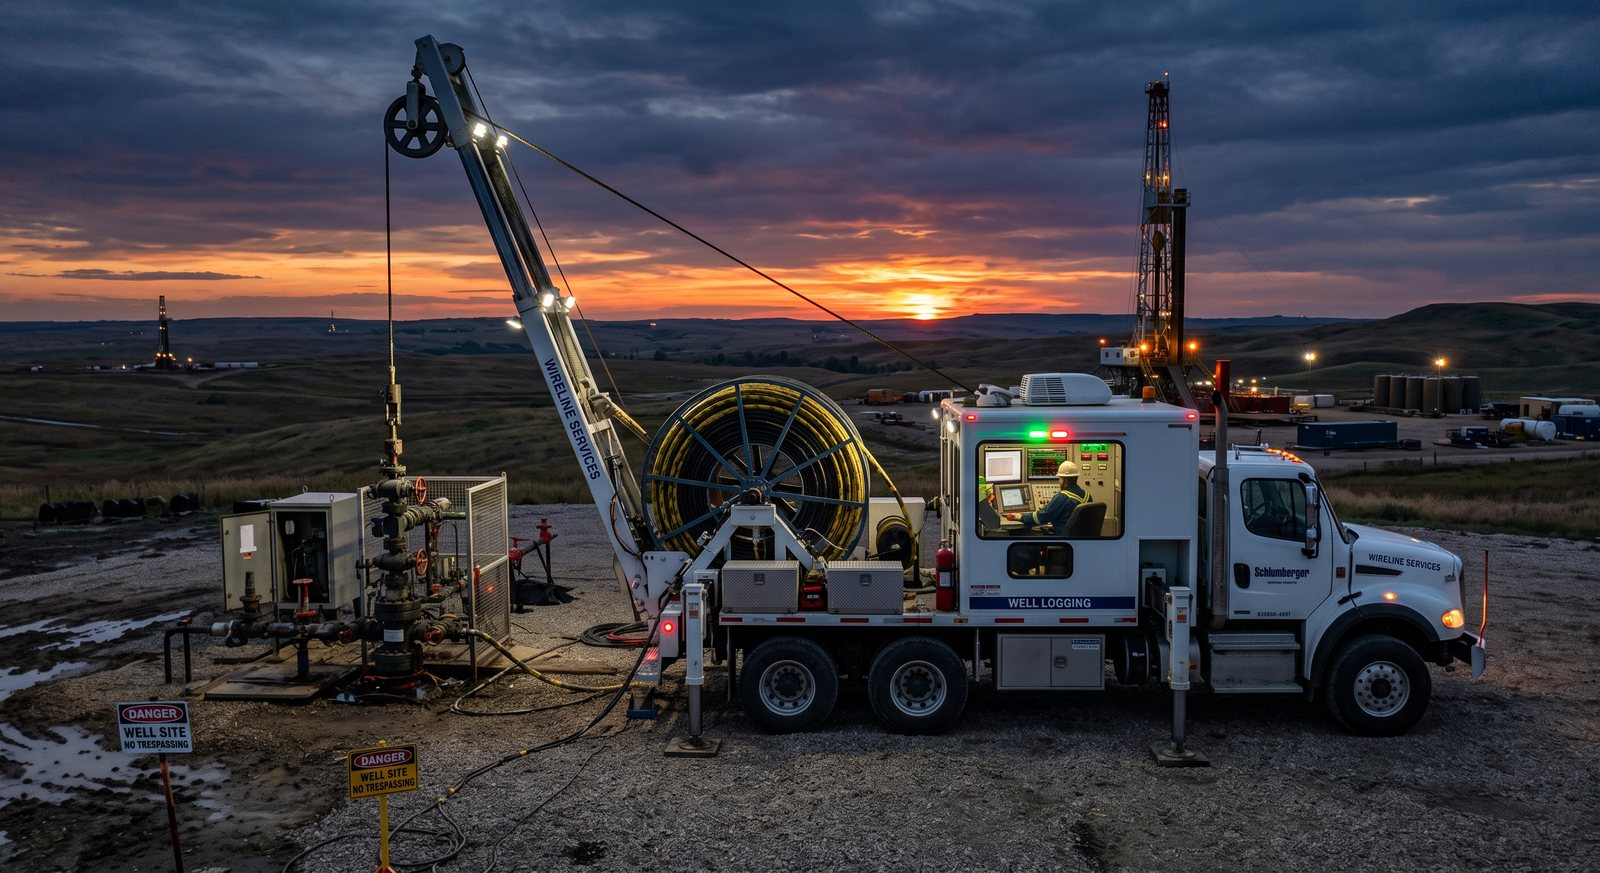
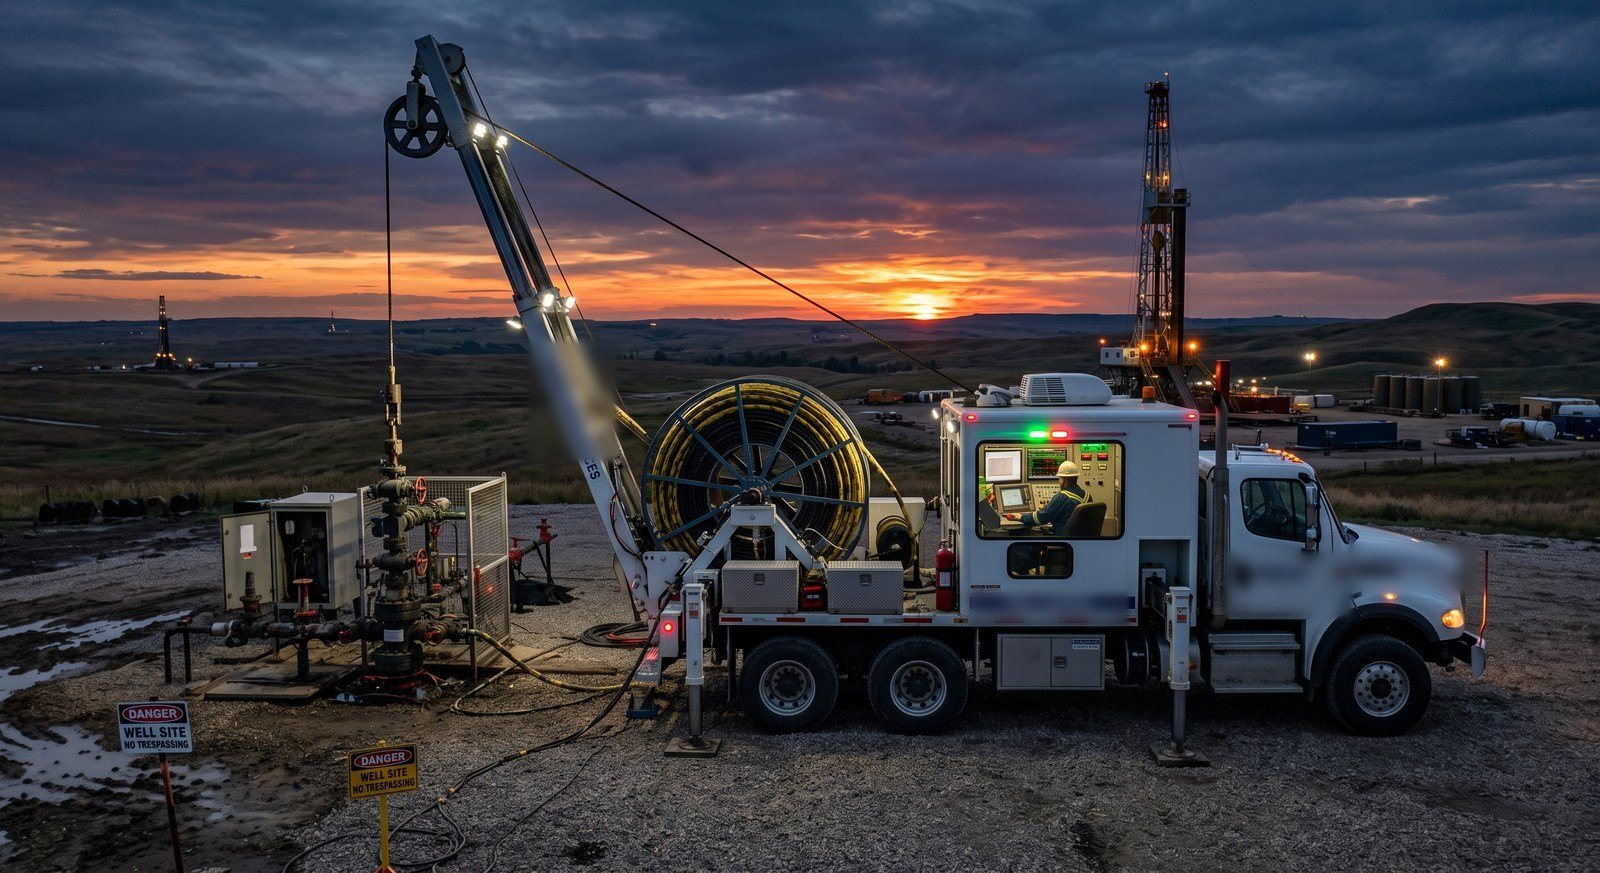
Add files via upload

diff --git a/sector-industrial.html b/sector-industrial.html
@@ -58,7 +58,7 @@
       <div class="catpanel on" id="estructuras">
         <div class="phead"><h2>Estructuras metálicas</h2><span style="font-family:var(--f-mono);font-size:12px;color:var(--text-dim)">ISO 9001</span></div>
         <p class="lead">Diseño y fabricación de estructuras metálicas.</p>
-        <div class="altrow" style="margin-top:26px"><div class="media"><span>Imagen / video de la línea</span></div><div><p class="sec-intro mt0">[Descripción de estructuras metálicas. Espacio para texto e imágenes.]</p></div></div>
+        <div class="altrow" style="margin-top:26px"><div class="media"><img src="assets/img/si-estructuras.jpg" alt="Estructuras metálicas" loading="lazy" onerror="this.remove()"><span>Imagen / video de la línea</span></div><div><p class="sec-intro mt0">[Descripción de estructuras metálicas. Espacio para texto e imágenes.]</p></div></div>
         <div class="pgrid">
           <article class="pcard"><div class="img"><span class="ph">Imagen</span></div><div class="body"><h4>Trabajo / proyecto</h4><p>Descripción breve.</p><div class="foot"><span class="std">—</span><span class="more">Ver →</span></div></div></article>
           <article class="pcard" style="justify-content:center;align-items:center;text-align:center;background:var(--surface-1);border-style:dashed"><div class="body" style="align-items:center;justify-content:center"><h4 style="color:var(--psi-cobalt)">+ Espacio</h4><p>Agregar trabajos.</p></div></article>
@@ -68,7 +68,7 @@
       <div class="catpanel" id="suministros">
         <div class="phead"><h2>Suministros industriales</h2></div>
         <p class="lead">Provisión de insumos y componentes para la industria.</p>
-        <div class="altrow" style="margin-top:26px"><div class="media"><span>Imagen / video de la línea</span></div><div><p class="sec-intro mt0">[Descripción de suministros industriales. Espacio para texto e imágenes.]</p></div></div>
+        <div class="altrow" style="margin-top:26px"><div class="media"><img src="assets/img/si-suministros.jpg" alt="Suministros industriales" loading="lazy" onerror="this.remove()"><span>Imagen / video de la línea</span></div><div><p class="sec-intro mt0">[Descripción de suministros industriales. Espacio para texto e imágenes.]</p></div></div>
         <div class="pgrid">
           <article class="pcard"><div class="img"><span class="ph">Imagen</span></div><div class="body"><h4>Suministro</h4><p>Descripción breve.</p><div class="foot"><span class="std">—</span><span class="more">Ver →</span></div></div></article>
           <article class="pcard" style="justify-content:center;align-items:center;text-align:center;background:var(--surface-1);border-style:dashed"><div class="body" style="align-items:center;justify-content:center"><h4 style="color:var(--psi-cobalt)">+ Espacio</h4><p>Agregar suministros.</p></div></article>
@@ -78,7 +78,7 @@
       <div class="catpanel" id="mec-especiales">
         <div class="phead"><h2>Mecanizados especiales</h2><span style="font-family:var(--f-mono);font-size:12px;color:var(--text-dim)">ISO 9001</span></div>
         <p class="lead">Servicios de mecanizado de precisión para piezas especiales.</p>
-        <div class="altrow" style="margin-top:26px"><div class="media"><span>Imagen / video de la línea</span></div><div><p class="sec-intro mt0">[Descripción de mecanizados especiales. Espacio para texto e imágenes.]</p></div></div>
+        <div class="altrow" style="margin-top:26px"><div class="media"><img src="assets/img/si-mecanizados-especiales.jpg" alt="Mecanizados especiales" loading="lazy" onerror="this.remove()"><span>Imagen / video de la línea</span></div><div><p class="sec-intro mt0">[Descripción de mecanizados especiales. Espacio para texto e imágenes.]</p></div></div>
         <div class="pgrid">
           <article class="pcard"><div class="img"><span class="ph">Imagen</span></div><div class="body"><h4>Pieza / servicio</h4><p>Descripción breve.</p><div class="foot"><span class="std">—</span><span class="more">Ver →</span></div></div></article>
           <article class="pcard" style="justify-content:center;align-items:center;text-align:center;background:var(--surface-1);border-style:dashed"><div class="body" style="align-items:center;justify-content:center"><h4 style="color:var(--psi-cobalt)">+ Espacio</h4><p>Agregar piezas.</p></div></article>
@@ -88,7 +88,7 @@
       <div class="catpanel" id="soldaduras">
         <div class="phead"><h2>Soldaduras bajo procedimiento</h2><span style="font-family:var(--f-mono);font-size:12px;color:var(--text-dim)">WPS · ISO 9001</span></div>
         <p class="lead">Soldadura con procedimientos (WPS) calificados.</p>
-        <div class="altrow" style="margin-top:26px"><div class="media"><span>Imagen / video de la línea</span></div><div><p class="sec-intro mt0">[Descripción de soldaduras bajo procedimiento. Espacio para texto e imágenes.]</p></div></div>
+        <div class="altrow" style="margin-top:26px"><div class="media"><img src="assets/img/si-soldaduras.jpg" alt="Soldaduras bajo procedimiento" loading="lazy" onerror="this.remove()"><span>Imagen / video de la línea</span></div><div><p class="sec-intro mt0">[Descripción de soldaduras bajo procedimiento. Espacio para texto e imágenes.]</p></div></div>
         <div class="pgrid">
           <article class="pcard"><div class="img"><span class="ph">Imagen</span></div><div class="body"><h4>Trabajo de soldadura</h4><p>Descripción breve.</p><div class="foot"><span class="std">WPS</span><span class="more">Ver →</span></div></div></article>
           <article class="pcard" style="justify-content:center;align-items:center;text-align:center;background:var(--surface-1);border-style:dashed"><div class="body" style="align-items:center;justify-content:center"><h4 style="color:var(--psi-cobalt)">+ Espacio</h4><p>Agregar trabajos.</p></div></article>
@@ -98,7 +98,7 @@
       <div class="catpanel" id="mec-generales">
         <div class="phead"><h2>Mecanizados generales</h2></div>
         <p class="lead">Torno, fresado y trabajos de mecanizado general.</p>
-        <div class="altrow" style="margin-top:26px"><div class="media"><span>Imagen / video de la línea</span></div><div><p class="sec-intro mt0">[Descripción de mecanizados generales. Espacio para texto e imágenes.]</p></div></div>
+        <div class="altrow" style="margin-top:26px"><div class="media"><img src="assets/img/si-mecanizados-generales.jpg" alt="Mecanizados generales" loading="lazy" onerror="this.remove()"><span>Imagen / video de la línea</span></div><div><p class="sec-intro mt0">[Descripción de mecanizados generales. Espacio para texto e imágenes.]</p></div></div>
         <div class="pgrid">
           <article class="pcard"><div class="img"><span class="ph">Imagen</span></div><div class="body"><h4>Servicio</h4><p>Descripción breve.</p><div class="foot"><span class="std">—</span><span class="more">Ver →</span></div></div></article>
           <article class="pcard" style="justify-content:center;align-items:center;text-align:center;background:var(--surface-1);border-style:dashed"><div class="body" style="align-items:center;justify-content:center"><h4 style="color:var(--psi-cobalt)">+ Espacio</h4><p>Agregar servicios.</p></div></article>
@@ -113,7 +113,7 @@
             <div class="feature"><div class="mk"></div><div><b>Simulación previa</b><span>Validación por software antes de fabricar.</span></div></div>
             <div class="feature"><div class="mk"></div><div><b>Informe de ingeniería</b><span>Documentación técnica del desarrollo.</span></div></div>
             <div class="feature"><div class="mk"></div><div><b>Procedimientos calificados</b><span>Soldadura y mecanizado bajo norma.</span></div></div>
-            <div class="media" style="min-height:200px;margin-top:8px"><span>Imagen / video del proceso</span></div>
+            <div class="media" style="min-height:200px;margin-top:8px"><img src="assets/img/si-segun-planos.jpg" alt="Fabricación según planos" loading="lazy" onerror="this.remove()"><span>Imagen / video del proceso</span></div>
           </div>
           <form class="quote" data-psi-form>
             <h4>Sube tu plano y solicita cotización</h4>
